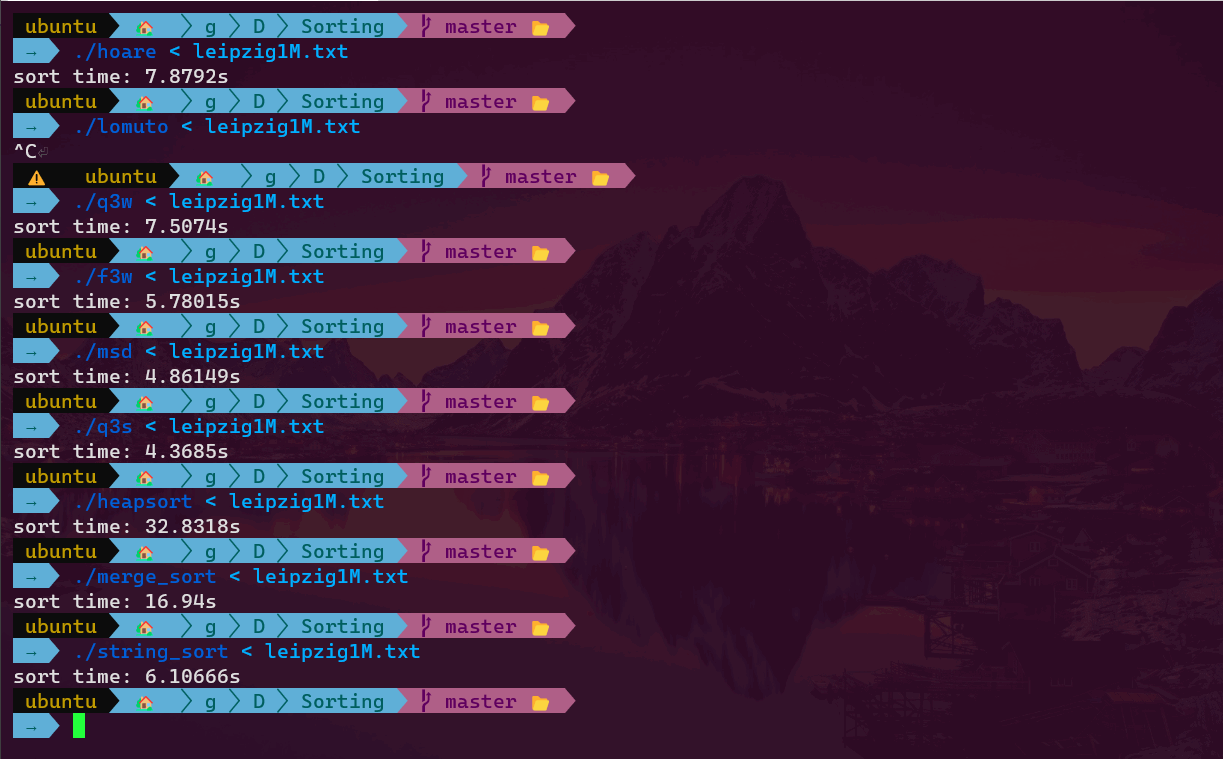
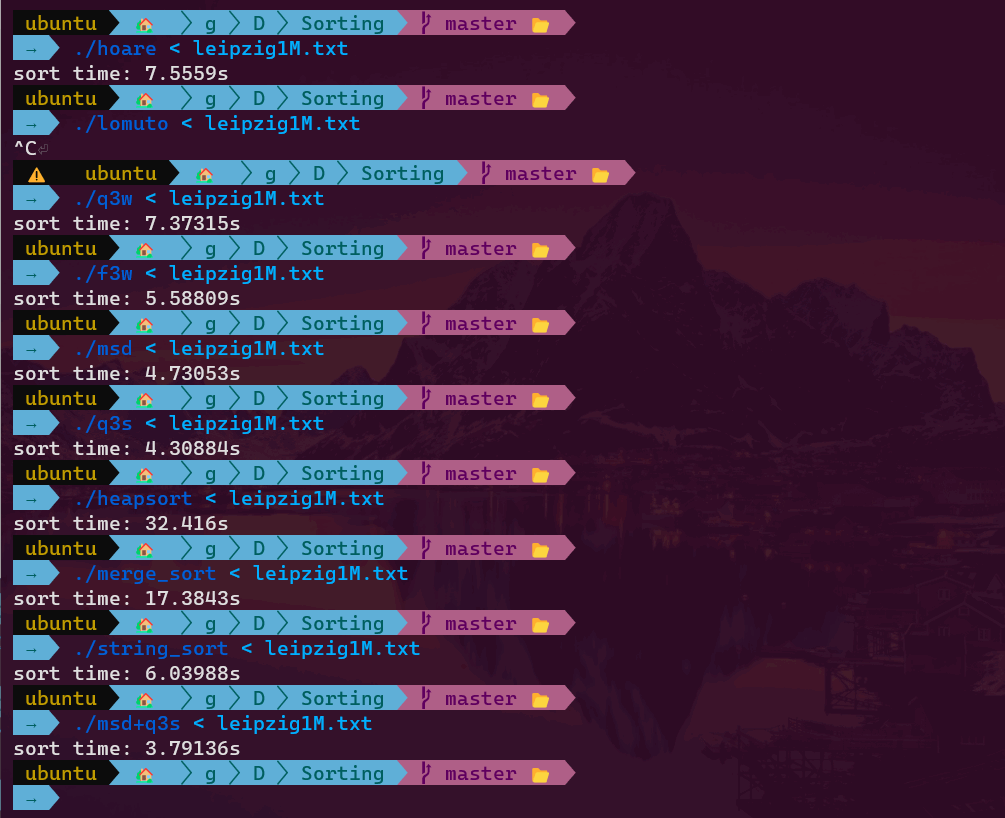
Simplify fast3way

diff --git a/Sorting/mySort.h b/Sorting/mySort.h
@@ -274,6 +274,9 @@ RandomIt Hoare_partition(RandomIt low, RandomIt high, Compare comp)
     // see also <https://en.wikipedia.org/wiki/quicksort#Hoare_partition_scheme>
     mid3(low, high, comp);    // make high = median of {low, mid, high}
     auto pivot = *high;       // choose the rightmost element as pivot
+    // Note: here j can not be high-1 when there are only two elements because
+    // if comp(pivot, *j) then j will get decreased again, thus pointing to an
+    // invalid position and we will return it.
     auto i = low, j = high;
     while (true) {
         while (comp(*i, pivot)) ++i;
@@ -286,21 +289,19 @@ RandomIt Hoare_partition(RandomIt low, RandomIt high, Compare comp)
 }
 
 template<typename RandomIt, typename Compare = std::less<typename std::iterator_traits<RandomIt>::value_type>>
-void quicksort(RandomIt first, RandomIt last, Compare comp = Compare{})
+void quick3way(RandomIt first, RandomIt last, Compare comp = Compare{})
 {
-    // see also <https://en.wikipedia.org/wiki/quicksort>
     if (last - first < 2) return;
-    if (last - first <= ISORT_MAX) { // hybrid with insertion sort for speed
+    if (last - first <= ISORT_MAX) { // hybridize with insertion sort for speed
         insertion_sort(first, last, comp);
         return;
     }
-#if defined(QUICK3WAY_PARTITION)
     // See also 'Algorithms-4e' p298-299. 3-way quicksort is based on Dutch National Flag algorithm
-    // (see <https://www.geeksforgeeks.org/sort-an-array-of-0s-1s-and-2s/>).
+    // (see <https://en.wikipedia.org/wiki/Dutch_national_flag_problem>).
     // Dijkstra's solution is based on a single left-to-right pass through the array that maintains a
     // pointer lt such that a[lo..lt-1] is less than v, a pointer gt such that a[gt+1..hi] is greater
     // than v, and a pointer i such that a[lt..i-1] are equal to v, and a[i..gt] are not yet examined.
-    // But we use the opposite of Dijkstra's approach, given mid3() makes hi the midian :)
+    // But we use a reversed version of Dijkstra's approach, given mid3() makes hi the midian :)
 #if 0
     mid3(first, last - 1, comp);
     iter_swap(first, last - 1);  // or we can do one more swap
@@ -322,78 +323,118 @@ void quicksort(RandomIt first, RandomIt last, Compare comp = Compare{})
     }
 #endif
     // Now a[lo..lt-1] < pivot = a[lt..gt] < a[gt+1..hi].
-    quicksort(first, lt, comp);      // sort a[lo..lt-1]
-    quicksort(gt + 1, last, comp);   // sort a[gt+1..hi]
+    quick3way(first, lt, comp);      // sort a[lo..lt-1]
+    quick3way(gt + 1, last, comp);   // sort a[gt+1..hi]
+}
 
-#elif defined(FAST3WAY_PARTITION) // by J. Bentley and D. McIlroy
+template<typename RandomIt, typename Compare = std::less<typename std::iterator_traits<RandomIt>::value_type>>
+void fast3way(RandomIt first, RandomIt last, Compare comp = Compare{})
+{
+    if (last - first < 2) return;
+    if (last - first <= ISORT_MAX) { // hybridize with insertion sort for speed
+        insertion_sort(first, last, comp);
+        return;
+    }
+    // by J. Bentley and D. McIlroy
     // See 'Algorithms-4e' p306 CREATIVE PROBLEMS 2.3.22
     // Note that this partitioning scheme does extra swaps for keys equal to the partitioning item's key,
     // while Quick3way does extra swaps for keys that are NOT equal to the partitioning item's key.
-    // See also <https://www.geeksforgeeks.org/3-way-quicksort-dutch-national-flag/>
 
-    int p = -1;          // p points to left last one that is equal to pivot
-    auto q = last - 1;   // q points to right first one that is equal to pivot
-    int i = -1;          // a[p+1..i-1] < pivot, a[lo..p]==pivot
-    auto j = last - 1;   // a[j+1..q-1] > pivot, a[q..hi]==pivot
-    auto pivot = *q;     // choose the rightmost element as pivot
+    /*
+     *          -----------------------------------------------
+     *  before  |                                           |v|
+     *          -----------------------------------------------
+     *           ^                                           ^
+     *           |                                           |
+     *           lo                                          hi
+     *
+     *          -----------------------------------------------
+     *  during  |   =v   |   <v   |         |   >v   |   =v   |
+     *          -----------------------------------------------
+     *           ^        ^        ^       ^        ^        ^
+     *           |        |        |       |        |        |
+     *           lo       p        i       j        q        hi
+     *
+     *          -----------------------------------------------
+     *   after  |       <v      |     =v      |      >v       |
+     *          -----------------------------------------------
+     *           ^             ^               ^             ^
+     *           |             |               |             |
+     *           lo            j               i             hi
+     */
+    mid3(first, last - 1, comp);
+    auto p = first;      // a[lo..p-1] = v
+    auto q = last - 2;   // a[q+1..hi] = v
+    auto i = first;      // a[p..i-1] < v
+    auto j = last - 2;   // a[j+1..q] > v
+    auto pivot = *(last-1); // v = a[hi]
     while (true) {
-        // increment i until it encounters first one that is less than pivot
-        while (comp(*(first + (++i)), pivot));
+        while (comp(*i, pivot)) ++i;
+        while (comp(pivot, *j)) --j;
 
-        // decrement j until it meets first one that is greater than pivot
-        while (comp(pivot, *(--j)))
-            if (j == first)
-                break;
+        if (i >= j) break;
 
-        // stop when iterators cross
-        if (first + i >= j) break;
+        iter_swap(i, j);
 
-        // swap, so that smaller goes on left and greater goes on right
-        iter_swap(first + i, j);
+        // Change this to `if (*i == pivot)` if == comparison is available,
+        // it can save one extra (potentially long) comparison (for strings).
+        if (!comp(*i, pivot) && !comp(pivot, *i))
+            iter_swap(p++, i);
 
-        // move all same left occurrence of pivot to beginning of array
-        if (!comp(*(first + i), pivot) && !comp(pivot, *(first + i))) {
-            iter_swap(first + (++p), first + i);
-        }
+        if (!comp(pivot, *j) && !comp(*j, pivot))
+            iter_swap(j, q--);
 
-        // move all same right occurrence of pivot to end of array
-        if (!comp(pivot, *j) && !comp(*j, pivot)) {
-            iter_swap(j, --q);
-        }
+        ++i; --j;
     }
+    if (i == j) // a[i] == a[j] == pivot
+        iter_swap(p++, i++);
+    // Now a[lo..p-1] = v, a[p..j] < v,
+    //     a[q+1..hi] = v, a[i..q] > v (i == j+1).
+    // Note: p may be equal to lo (no =v on the lhs),
+    // while at least one =v (the pivot) on the rhs.
 
-    // move pivot element to its correct index
-    if (comp(pivot, *(first + i)))  // *(first+i)>=pivot
-        iter_swap(first + i, last - 1);
+    /* swap the items with equal keys into position */
 
-    // move all left same occurrences from beginning to adjacent to a[i]
-    if (i >= 1)
-        j = first + i - 1;
-    else
-        j = first;
+    for (auto k = first; k != p; ++k)
+        iter_swap(k, j--);
 
-    for (int k = 0; k <= p; ++k) {
-        iter_swap(first + k, j);
-        if (j > first)
-            --j;
-        else
-            break;
+    for (auto k = last-1; k != q; --k)
+        iter_swap(i++, k);
+
+    // now a[lo..j] < v = a[j+1..i-1] < a[i..hi]
+    fast3way(first, j+1, comp); // sort a[lo..j]
+    fast3way(i, last, comp);    // sort a[i..hi]
+}
+
+template<typename RandomIt, typename Compare = std::less<typename std::iterator_traits<RandomIt>::value_type>>
+void quicksort_lomuto(RandomIt first, RandomIt last, Compare comp = Compare{})
+{
+    if (last - first < 2) return;
+    if (last - first <= ISORT_MAX) { // hybridize with insertion sort for speed
+        insertion_sort(first, last, comp);
+        return;
     }
-
-    // move all right same occurrences from end to adjacent to a[i]
-    i = i + 1;
-    for (auto k = last - 2; k >= q; --k, ++i)
-        iter_swap(first + i, k);
-
-    // sort the rest non-equal area on both sides
-    quicksort(first, j + 1, comp);    // sort a[lo..j]
-    quicksort(first + i, last, comp); // sort a[i..hi]
-
-#elif defined(LOMUTO_PARTITION)
     auto pivot = Lomuto_partition(first, last - 1, comp);
-    quicksort(first, pivot, comp);       // sort a[first..pivot-1]
-    quicksort(pivot + 1, last, comp);    // sort a[pivot+1..last-1]
+    quicksort_lomuto(first, pivot, comp);       // sort a[first..pivot-1]
+    quicksort_lomuto(pivot + 1, last, comp);    // sort a[pivot+1..last-1]
+}
+
+template<typename RandomIt, typename Compare = std::less<typename std::iterator_traits<RandomIt>::value_type>>
+void quicksort(RandomIt first, RandomIt last, Compare comp = Compare{})
+{
+    // see also <https://en.wikipedia.org/wiki/quicksort>
+#if defined(QUICK3WAY_PARTITION)
+    quick3way(first, last, comp);
+#elif defined(FAST3WAY_PARTITION)
+    fast3way(first, last, comp);
+#elif defined(LOMUTO_PARTITION)
+    quicksort_lomuto(first, last, comp);
 #else
+    if (last - first < 2) return;
+    if (last - first <= ISORT_MAX) { // hybridize with insertion sort for speed
+        insertion_sort(first, last, comp);
+        return;
+    }
     auto pivot = Hoare_partition(first, last - 1, comp);
     quicksort(first, pivot + 1, comp);   // sort a[frist..pivot]
     quicksort(pivot + 1, last, comp);    // sort a[pivot+1..last-1]
@@ -827,7 +868,7 @@ void MSD_sort(RandomIt first, RandomIt last, size_t d)
     /* sort subarrays recursively */
     for (int r = 0; r < Radix; ++r)
         if (count[r+1] - count[r] > 1 && a[count[r]][d] != '\0')
-#if 1
+#ifndef USE_MSD_PLUS_Q3S
             MSD_sort(first + count[r], first + count[r+1], d+1);
 #else
             // MSD+Q3S (or rather multiway partitioning 3-way string quicksort)
@@ -962,8 +1003,7 @@ void sort(RandomIt first, RandomIt last, bool (*comp)(
 
 /*
  * Time complexity: O(k+(n-k)log(k)+klog(k)). It's fast when k isn't very large.
- * See also https://en.wikipedia.org/wiki/Partial_sorting, and
- * https://www.geeksforgeeks.org/sort-vs-partial_sort-vs-nth_element-sort-in-c-stl/
+ * See also https://en.wikipedia.org/wiki/Partial_sorting
  * Alternative implementations:
  *
  * 1. Partial heapsort: Build a heap containing all n elements and then

diff --git a/Sorting/Sort_test2.cpp b/Sorting/Sort_test2.cpp
@@ -3,21 +3,21 @@
 #include <iostream>
 
 using namespace std;
-namespace sa = mySortingAlgo;
+namespace mysa = mySortingAlgo;
 
 int main()
-{    
+{
     array<int, 20> s1 = { 18,7,12,8,9,5,13,1,19,16,4,11,0,17,15,3,6,2,14,10 };
     int n1 = 10;
-    sa::quickselect(s1.begin(), s1.begin() + n1, s1.end()/*, greater<int>{}*/);
+    mysa::quickselect(s1.begin(), s1.begin() + n1, s1.end()/*, greater<int>{}*/);
     for (int a : s1) {
         cout << a << " ";
     }
 
     cout << "\n\n";
     array<int, 20> s2 = { 19,12,18,15,16,3,11,6,9,8,13,7,5,0,17,14,4,10,2,1 };
-    int n2 = 4;
-    sa::partial_quicksort(s2.begin(), s2.begin() + n2, s2.end()/*, greater<int>{}*/);
+    int n2 = 13;
+    mysa::partial_quicksort(s2.begin(), s2.begin() + n2, s2.end()/*, greater<int>{}*/);
     for (int a : s2) {
         cout << a << " ";
     }
@@ -25,7 +25,7 @@ int main()
     cout << "\n\n";
     array<int, 20> s3 = {7,5,18,0,15,4,16,3,11,6,9,19,12,8,13,17,10,2,14,1 };
     int n3 = 5;
-    sa::partial_sort(s3.begin(), s3.begin() + n3, s3.end(), greater<int>{});
+    mysa::partial_sort(s3.begin(), s3.begin() + n3, s3.end(), greater<int>{});
     for (int a : s3) {
         cout << a << " ";
     }

diff --git a/Sorting/string_sort.cc b/Sorting/string_sort.cc
@@ -23,6 +23,9 @@
 #elif defined(USE_Q3S)
   #define __sort__    str_qsort
   #define __method__  "Quick3String"
+#elif defined(USE_MSD_PLUS_Q3S)
+  #define __sort__    radix_sort
+  #define __method__  "MSD+Q3S"
 #elif defined(USE_HEAPSORT)
   #define __sort__    heapsort
   #define __method__  "Heapsort"
@@ -60,7 +63,8 @@ int main()
 
 #if defined(USE_HOARE) || defined(USE_LOMUTO) || defined(USE_Q3W) || \
     defined(USE_F3W) || defined(USE_MSD) || defined(USE_Q3S) || \
-    defined(USE_MERGE_SORT) || defined(USE_HEAPSORT)
+    defined(USE_MERGE_SORT) || defined(USE_HEAPSORT) || \
+    defined(USE_MSD_PLUS_Q3S)
     namespace mysa = mySortingAlgo;
     mysa::__sort__(arr.begin(), arr.end());
 #else

diff --git a/Sorting/msd+q3s.cc b/Sorting/msd+q3s.cc
@@ -1,0 +1,2 @@
+#define USE_MSD_PLUS_Q3S
+#include "string_sort.cc"

diff --git a/Sorting/README.md b/Sorting/README.md
@@ -1,13 +1,13 @@
 | Method | Time |
 | --- | --- |
-| Hoare | 7.8792s |
-| Quick3Way | 7.5074s |
-| Fast3Way | 5.78015s |
-| RadixSort | 4.86149s |
-| Quick3String | 4.3685s |
-| Heapsort | 32.8318s |
-| MergeSort | 16.94s |
-| std::sort | 6.10666s |
-| MSD+Q3S | 3.74214s |
+| Hoare | 7.5559s |
+| Quick3Way | 7.37315s |
+| Fast3Way | 5.58809s |
+| RadixSort | 4.73053s |
+| Quick3String | 4.30884s |
+| Heapsort | 32.416s |
+| MergeSort | 17.3843s |
+| std::sort | 6.03988s |
+| MSD+Q3S | 3.79136s |
 
 ![](img/results.png)
